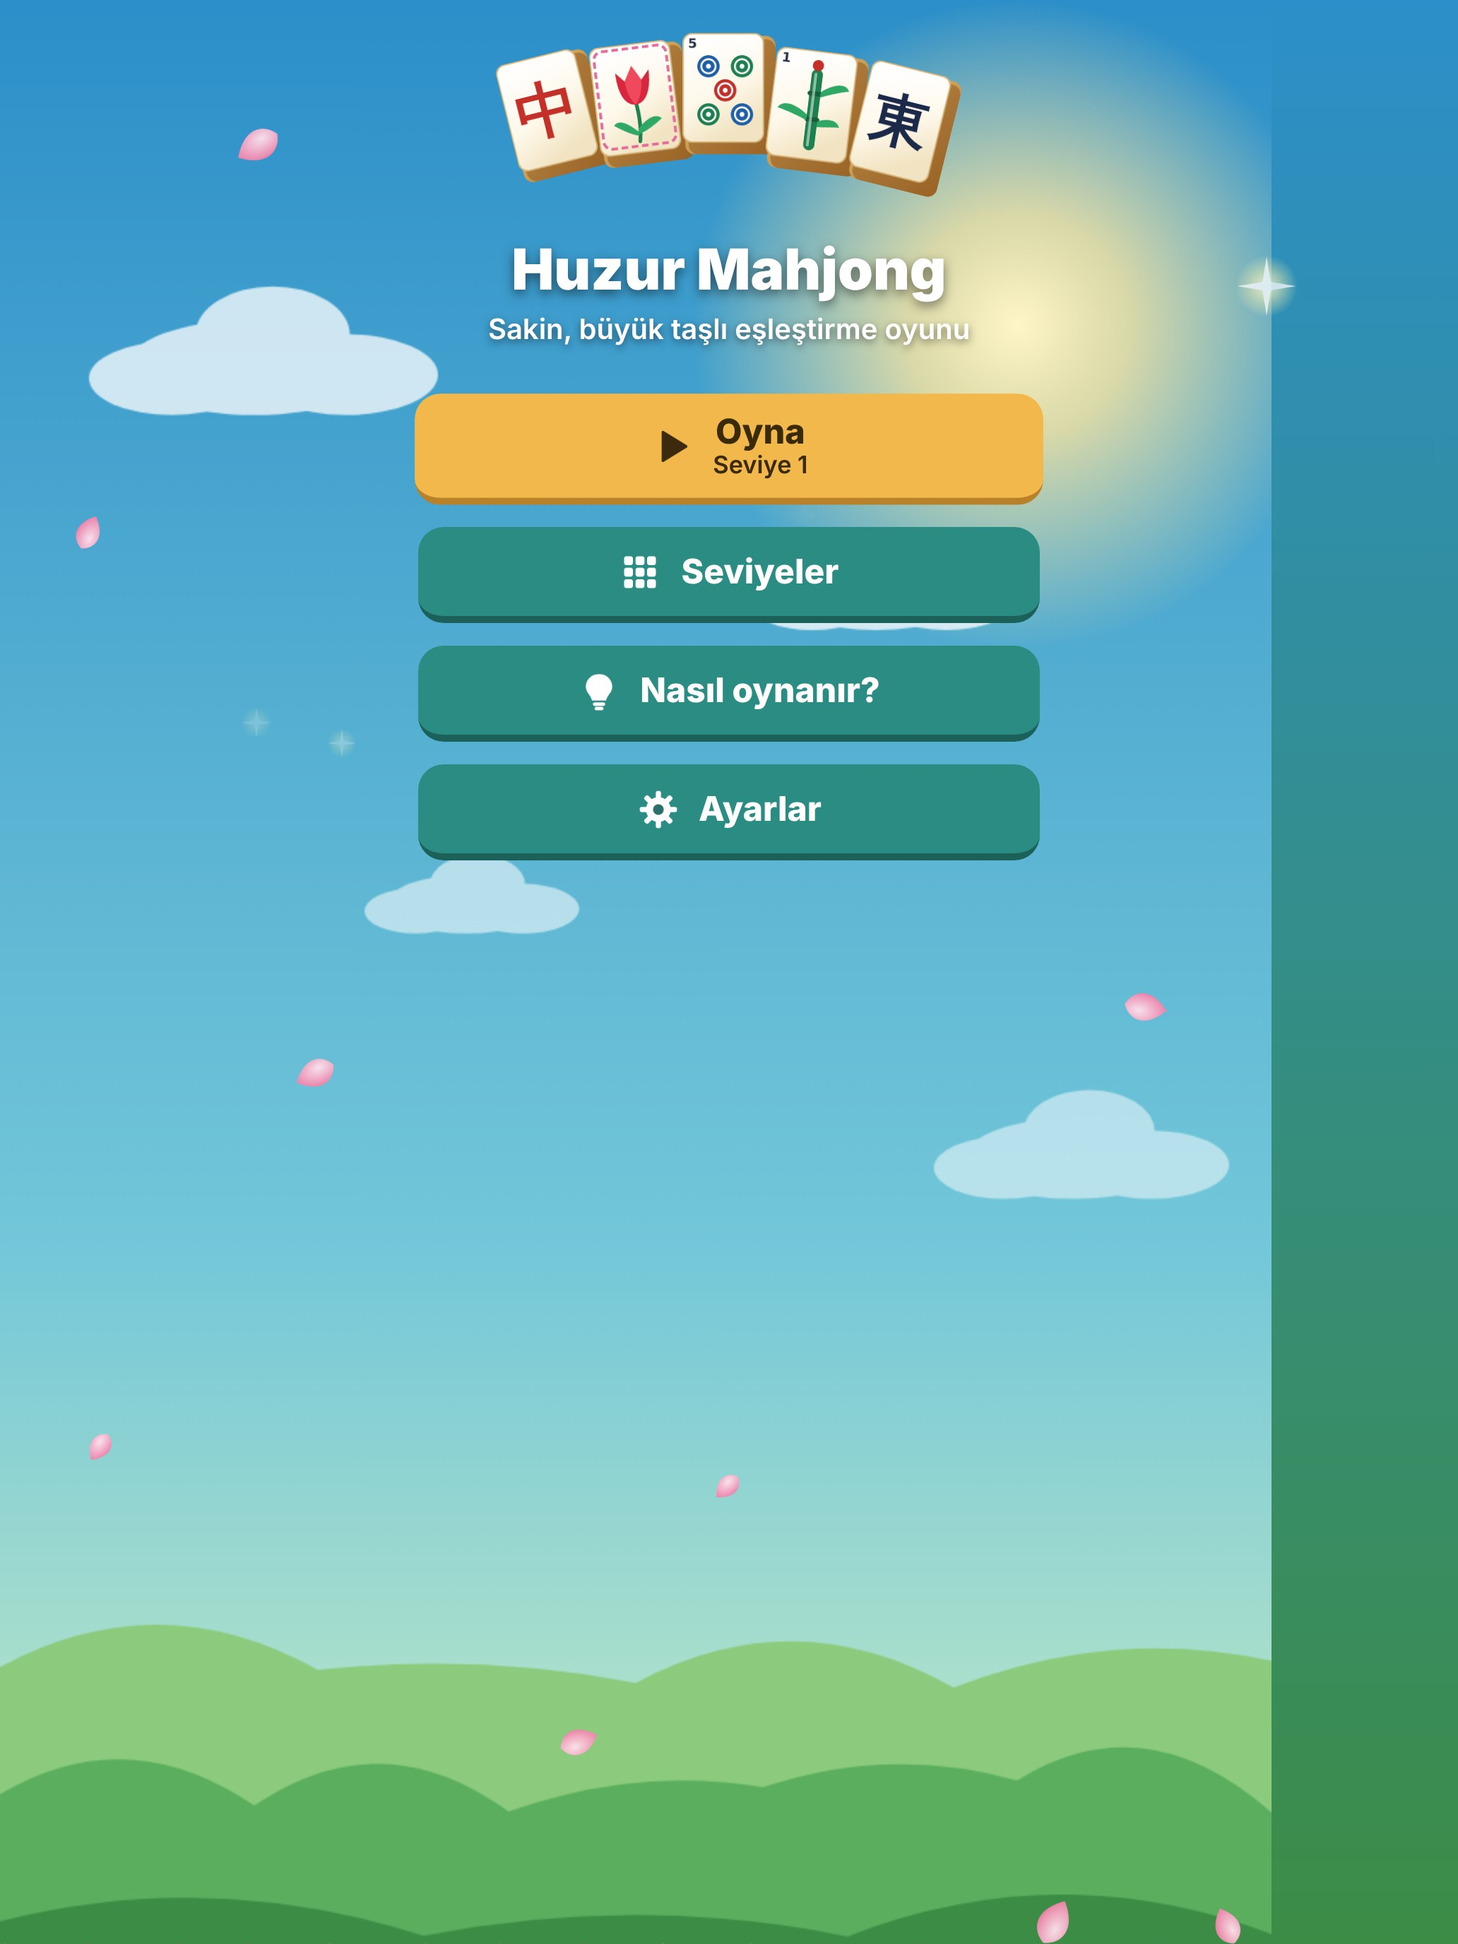
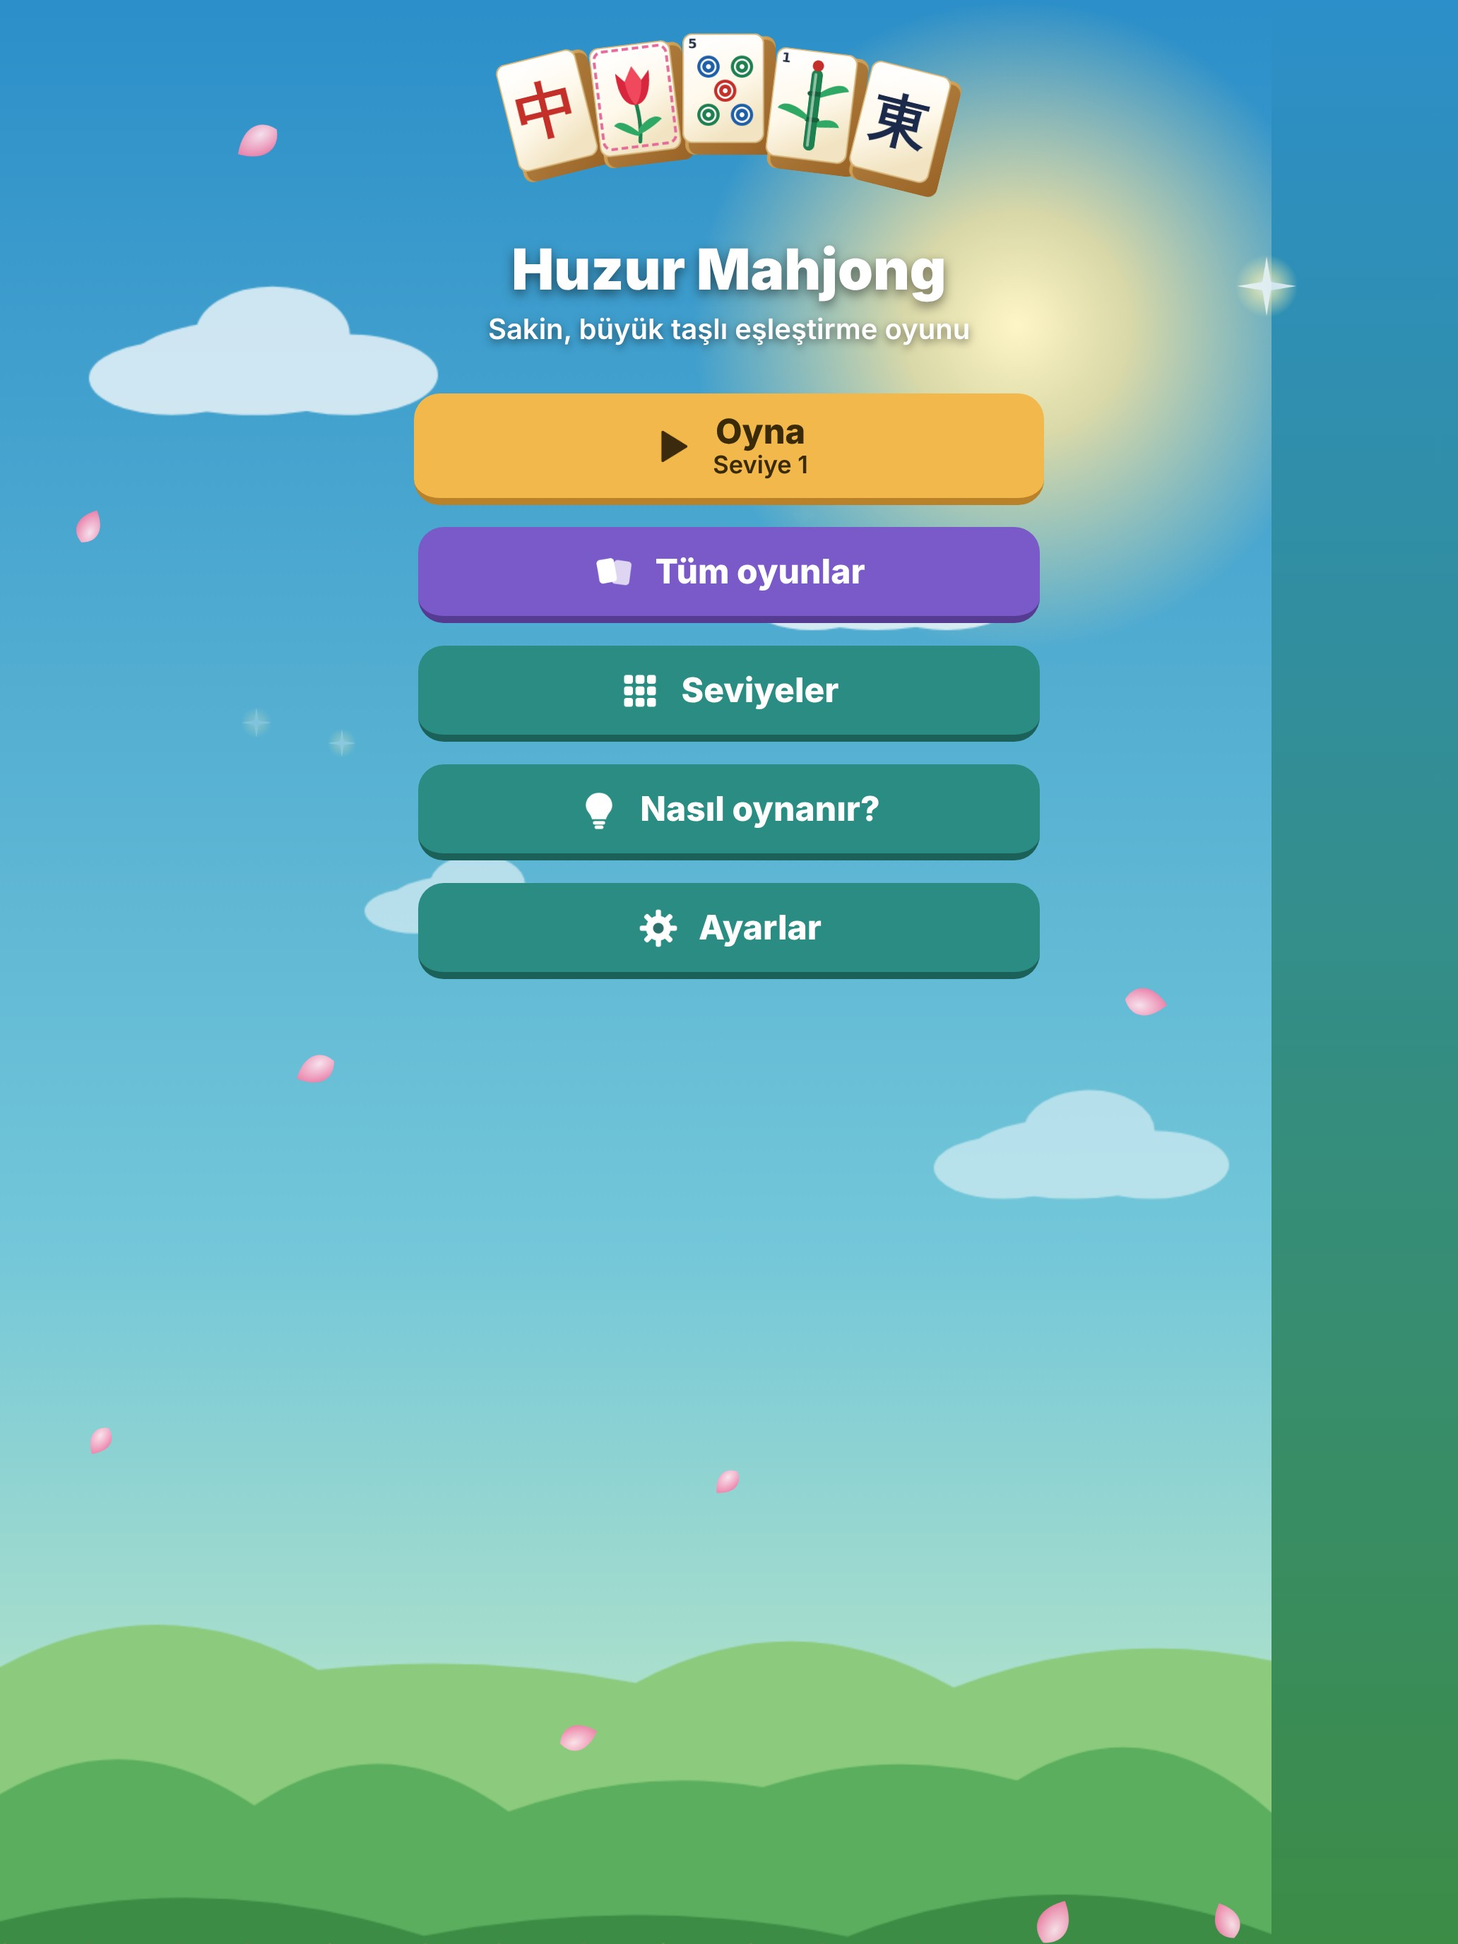
App Store hazırlığı: yeni ekran görüntüleri, destek sayfaları, doldurma rehberi
- Ekran görüntüleri 8 oyunu gösterecek şekilde yenilendi; Dynamic Island
  orta boy iPhone (6.3", 1206x2622) boyutu eklendi (TR ve EN; 6.9", 6.3", 13" iPad)
- docs/: destek (index.html) ve gizlilik politikası (gizlilik.html, 7 dil)
  sayfaları; herhangi bir ücretsiz statik barındırmada yayınlanabilir
- store/APP-STORE-CONNECT.md: açıklama, anahtar kelimeler, tanıtım metni,
  telif hakkı, inceleme iletişim bilgileri ve yaş derecelendirmesi
  cevapları alan alan, yapıştırmaya hazır
- Türkçe tanıtım metni 8 oyunu anlatacak şekilde güncellendi

Claude-Session: https://claude.ai/code/session_016Sydttefwf5DyJyme2mCtC

diff --git a/mahjong/docs/gizlilik.html b/mahjong/docs/gizlilik.html
@@ -1,0 +1,18 @@
+<!doctype html>
+<html lang="tr">
+<head>
+<meta charset="utf-8">
+<meta name="viewport" content="width=device-width, initial-scale=1">
+<title>Huzur Mahjong – Gizlilik Politikası / Privacy Policy</title>
+<link rel="stylesheet" href="style.css">
+</head>
+<body>
+<main>
+  <h1>Huzur Mahjong</h1>
+  <p>Gizlilik Politikası · Privacy Policy · Son güncelleme / Last updated: 2026-11-11</p>
+  <nav><a href="index.html">Destek / Support</a></nav>
+  <section><h2>Türkçe</h2><p>Huzur Mahjong (&quot;Uygulama&quot;) hiçbir kişisel veri toplamaz, saklamaz veya paylaşmaz.</p><ul><li>Uygulama internet bağlantısı kullanmaz.</li><li>Oyun ilerlemeniz ve ayarlarınız yalnızca kendi cihazınızda saklanır; bize veya üçüncü kişilere gönderilmez. Uygulamayı sildiğinizde bu bilgiler de silinir.</li><li>Uygulamada reklam, analiz aracı veya kullanıcı takibi yoktur.</li><li>Uygulama 13 yaş altındaki çocuklar dahil hiç kimseden bilerek bilgi toplamaz.</li></ul><p>Sorularınız için: E-POSTA-ADRESINIZ</p></section><section><h2>English</h2><p>Huzur Mahjong (the &quot;App&quot;) does not collect, store or share any personal data.</p><ul><li>The App does not use an internet connection.</li><li>Your game progress and settings are stored only on your own device and are never sent to us or to third parties. Deleting the App deletes this information.</li><li>The App contains no advertising, analytics or user tracking.</li><li>The App does not knowingly collect information from anyone, including children under 13.</li></ul><p>Questions: E-POSTA-ADRESINIZ</p></section><section><h2>Português</h2><p>Huzur Mahjong (&quot;o App&quot;) não coleta, armazena nem compartilha nenhum dado pessoal.</p><ul><li>O App não usa conexão com a internet.</li><li>Seu progresso e suas configurações ficam salvos apenas no seu aparelho e nunca são enviados para nós ou para terceiros. Ao apagar o App, essas informações também são apagadas.</li><li>O App não tem anúncios, ferramentas de análise nem rastreamento de usuários.</li><li>O App não coleta intencionalmente informações de ninguém, incluindo crianças menores de 13 anos.</li></ul><p>Dúvidas: E-POSTA-ADRESINIZ</p></section><section><h2>Deutsch</h2><p>Huzur Mahjong (die „App“) erhebt, speichert und teilt keine personenbezogenen Daten.</p><ul><li>Die App nutzt keine Internetverbindung.</li><li>Dein Spielfortschritt und deine Einstellungen werden nur auf deinem eigenen Gerät gespeichert und nie an uns oder Dritte gesendet. Wenn du die App löschst, werden auch diese Daten gelöscht.</li><li>Die App enthält keine Werbung, keine Analysewerkzeuge und kein Nutzer-Tracking.</li><li>Die App erhebt wissentlich keine Daten von irgendjemandem, auch nicht von Kindern unter 13 Jahren.</li></ul><p>Fragen: E-POSTA-ADRESINIZ</p></section><section><h2>Français</h2><p>Huzur Mahjong (l’« App ») ne collecte, ne stocke et ne partage aucune donnée personnelle.</p><ul><li>L’App n’utilise pas de connexion Internet.</li><li>Votre progression et vos réglages sont enregistrés uniquement sur votre appareil et ne sont jamais envoyés ni à nous ni à des tiers. Supprimer l’App supprime aussi ces informations.</li><li>L’App ne contient ni publicité, ni outil d’analyse, ni suivi des utilisateurs.</li><li>L’App ne collecte sciemment aucune information auprès de quiconque, y compris les enfants de moins de 13 ans.</li></ul><p>Questions : E-POSTA-ADRESINIZ</p></section><section><h2>日本語</h2><p>Huzur Mahjong（以下「本アプリ」）は、個人情報を一切収集・保存・共有しません。</p><ul><li>本アプリはインターネット接続を使用しません。</li><li>ゲームの進行状況と設定はお使いの端末内にのみ保存され、当方や第三者に送信されることはありません。 本アプリを削除すると、これらの情報も削除されます。</li><li>本アプリには広告、分析ツール、ユーザー追跡機能はありません。</li><li>本アプリは、13歳未満のお子様を含め、いかなる方からも意図的に情報を収集しません。</li></ul><p>お問い合わせ: E-POSTA-ADRESINIZ</p></section><section><h2>한국어</h2><p>Huzur Mahjong(이하 &quot;앱&quot;)은 어떠한 개인 정보도 수집, 저장 또는 공유하지 않습니다.</p><ul><li>앱은 인터넷 연결을 사용하지 않습니다.</li><li>게임 진행 상황과 설정은 사용자의 기기에만 저장되며 당사나 제3자에게 전송되지 않습니다. 앱을 삭제하면 이 정보도 함께 삭제됩니다.</li><li>앱에는 광고, 분석 도구, 사용자 추적 기능이 없습니다.</li><li>앱은 만 13세 미만 아동을 포함해 누구로부터도 의도적으로 정보를 수집하지 않습니다.</li></ul><p>문의: E-POSTA-ADRESINIZ</p></section>
+  <footer>© 2026 Huzur Mahjong</footer>
+</main>
+</body>
+</html>

diff --git a/mahjong/docs/index.html b/mahjong/docs/index.html
@@ -1,0 +1,51 @@
+<!doctype html>
+<html lang="tr">
+<head>
+<meta charset="utf-8">
+<meta name="viewport" content="width=device-width, initial-scale=1">
+<title>Huzur Mahjong – Destek / Support</title>
+<link rel="stylesheet" href="style.css">
+</head>
+<body>
+<main>
+  <h1>Huzur Mahjong</h1>
+  <p>Büyük taşlı, sakin taş eşleştirme oyunu. · A calm tile-matching game with big tiles.</p>
+  <nav><a href="#tr">Türkçe</a><a href="#en">English</a><a href="gizlilik.html">Gizlilik / Privacy</a></nav>
+
+  <div class="card">
+    <p>Soru, öneri ve sorunlar için / Questions, ideas and problems:</p>
+    <p class="mail">E-POSTA-ADRESINIZ</p>
+  </div>
+
+  <section id="tr">
+    <h2>Destek (Türkçe)</h2>
+    <h3>Nasıl oynanır?</h3>
+    <p>Aynı resme sahip iki serbest taşa dokunun; ikisi birden kalkar. Serbest taşın üstünde taş olmaz ve sağ ya da sol yanı boştur. Oyundaki "Nasıl oynanır?" düğmesi kuralları gösterir.</p>
+    <h3>Diğer oyunlar nerede?</h3>
+    <p>Ana sayfadaki "Tüm oyunlar" düğmesinden 8 oyuna ulaşabilirsiniz: Klasik, Zamana Karşı, Günün Bulmacası, Toplam 10, Üçlü Toplama, Bağlantı, Hafıza ve Zirve. Her oyunun içindeki soru işareti düğmesi o oyunun kurallarını anlatır.</p>
+    <h3>İpucum bitti, ne yapmalıyım?</h3>
+    <p>İpucu, karıştırma ve geri alma hakları sınırlıdır. Yeni bir seviyeyi ilk kez bitirdiğinizde yeni haklar kazanırsınız. Hamle kalmazsa karıştırma her zaman ücretsizdir.</p>
+    <h3>Dili nasıl değiştiririm?</h3>
+    <p>Ana sayfa → Ayarlar → Dil. Oyun Türkçe, İngilizce, Portekizce, Almanca, Fransızca, Japonca ve Korece bilir.</p>
+    <h3>İlerlemem kayboldu mu?</h3>
+    <p>İlerlemeniz yalnızca telefonunuzda saklanır. Uygulamayı silerseniz ilerleme de silinir.</p>
+  </section>
+
+  <section id="en">
+    <h2>Support (English)</h2>
+    <h3>How do I play?</h3>
+    <p>Tap two free tiles with the same picture to remove them. A free tile has nothing on top and an open left or right side. The "How to play" button in the game shows the rules.</p>
+    <h3>Where are the other games?</h3>
+    <p>Tap "All games" on the home screen to find 8 games: Classic, Time Attack, Daily Puzzle, Sum 10, Triple Collect, Connect, Memory and Peaks. The question-mark button inside each game explains its rules.</p>
+    <h3>I ran out of hints. What now?</h3>
+    <p>Hints, shuffles and undos are limited. You earn more by finishing a new level for the first time. When no moves are left, shuffling is always free.</p>
+    <h3>How do I change the language?</h3>
+    <p>Home → Settings → Language. The game is available in Turkish, English, Portuguese, German, French, Japanese and Korean.</p>
+    <h3>Did I lose my progress?</h3>
+    <p>Your progress is stored only on your phone. Deleting the app also deletes your progress.</p>
+  </section>
+
+  <footer>© 2026 Huzur Mahjong</footer>
+</main>
+</body>
+</html>

diff --git a/mahjong/docs/style.css b/mahjong/docs/style.css
@@ -1,0 +1,14 @@
+:root { --bg: #0f4a47; --card: #14605b; --ink: #ffffff; --soft: rgba(255,255,255,.82); --accent: #f2b84b; }
+* { box-sizing: border-box; }
+body { margin: 0; background: var(--bg); color: var(--ink); font: 17px/1.6 -apple-system, BlinkMacSystemFont, "Segoe UI", Roboto, "Noto Sans", sans-serif; }
+main { max-width: 760px; margin: 0 auto; padding: 32px 18px 60px; }
+h1 { font-size: 30px; margin: 0 0 4px; }
+h2 { font-size: 22px; margin: 34px 0 10px; color: var(--accent); }
+h3 { font-size: 18px; margin: 18px 0 4px; }
+p, li { color: var(--soft); }
+a { color: var(--accent); }
+.card { background: var(--card); border-radius: 16px; padding: 18px 20px; margin: 14px 0; }
+.mail { font-size: 20px; font-weight: 700; color: var(--ink); }
+nav { margin: 8px 0 20px; }
+nav a { margin-right: 14px; }
+footer { margin-top: 40px; font-size: 14px; color: var(--soft); }

diff --git a/mahjong/store/APP-STORE-CONNECT.md b/mahjong/store/APP-STORE-CONNECT.md
@@ -1,0 +1,152 @@
+# App Store Connect — doldurma rehberi
+
+App Store Connect → Uygulamalar → **Huzur Mahjong** → sol menüde **1.0 Hazırlanıyor**.
+Aşağıdaki her kutudaki metni olduğu gibi kopyalayıp ilgili alana yapıştırın.
+
+---
+
+## 1. Ekran görüntüleri
+
+"Önizlemeler ve Ekran Görüntüleri" bölümünde cihaz sekmesini seçip klasördeki dosyaları
+**numara sırasıyla** sürükleyip bırakın (ilk 3 görüntü aramalarda görünür):
+
+| App Store Connect'teki cihaz | Klasör |
+| --- | --- |
+| iPhone 6.9" (en büyük iPhone) | `store/screenshots/tr/iphone-6.9/` |
+| iPhone Dynamic Island orta boy (6.3") | `store/screenshots/tr/iphone-6.3/` |
+| iPad 13" | `store/screenshots/tr/ipad-13/` |
+
+Sıra: 1-home, 2-games, 3-classic-hint, 4-triple, 5-connect, 6-peaks, 7-dawn, 8-sea, 9-levels.
+İngilizce sayfa için aynı yapı `store/screenshots/en/` içinde.
+
+---
+
+## 2. Tanıtım metni (Promotional Text)
+
+```
+8 oyun bir arada: Klasik, Üçlü Toplama, Bağlantı, Hafıza, Zirve ve daha fazlası. Büyük taşlar, hareketli sahneler, sakin bir mola.
+```
+
+## 3. Açıklama (Description)
+
+```
+Huzur Mahjong, klasik taş eşleştirme oyununu sakin ve göz yormayan bir tasarımla sunar.
+
+AYNI İKİ TAŞI BULUN
+Üstü ve bir yanı açık olan iki aynı taşa dokunun, ikisi birden kalkar. Bütün taşları
+kaldırdığınızda seviye tamamlanır.
+
+GÖZ YORMAYAN TASARIM
+• Büyük ve net taşlar — küçük ekranlarda bile rahatça okunur
+• Seçilebilir taşlar parlak, kapalı taşlar soluk görünür
+• Büyük düğmeler, büyük yazılar
+
+CANLI SAHNELER
+• Lale bahçesi, Boğaz'da gün batımı, Kapadokya balonları ve Ege kıyısı
+• Taşlar eşleşince parıltıyla patlar, hızlı eşleşmeler kombo yapar
+• Her seviyede 3 yıldız topla, konfetiyle kutla
+
+ACELE YOK
+• Süre baskısı yok
+• İpucu, karıştırma ve geri alma hakları; yeni seviyeler bitirdikçe artar
+• Her seviye çözülebilir olarak hazırlanır
+
+BOL BOL OYUN
+• 8 farklı oyun: Klasik, Zamana Karşı, Günün Bulmacası, Toplam 10, Üçlü Toplama, Bağlantı, Hafıza ve Zirve
+• 200 seviye, 16 farklı dizilim: kalp, ev, kelebek, kale, piramit ve daha fazlası
+• Oyun otomatik kaydedilir, kaldığınız yerden devam edersiniz
+
+İNTERNET GEREKMEZ
+Huzur Mahjong çevrimdışı çalışır ve hiçbir kişisel veri toplamaz.
+```
+
+## 4. Anahtar kelimeler (Keywords)
+
+```
+mahjong,taş,eşleştirme,bulmaca,solitaire,zeka,beyin,klasik,büyük,kolay,rahatlatıcı,çevrimdışı
+```
+
+## 5. Alt başlık (Subtitle) — "Uygulama Bilgileri" sayfasında
+
+```
+Büyük taşlı, sakin eşleştirme
+```
+
+## 6. Destek URL'si ve Gizlilik Politikası URL'si
+
+Bu iki adres herkesin açabileceği bir web sayfası olmalıdır. Sayfalar hazır:
+`docs/index.html` (destek) ve `docs/gizlilik.html` (gizlilik politikası).
+
+1. İki dosyadaki `E-POSTA-ADRESINIZ` yazısını kendi e-posta adresinizle değiştirin
+   (veya adresinizi Claude'a yazın, o yerleştirsin).
+2. En kolay ücretsiz yayın yolu: <https://app.netlify.com/drop> adresine gidin, ücretsiz
+   hesap açın (Google ile giriş olur) ve `docs` klasörünü sayfaya sürükleyip bırakın.
+   Size `https://<isim>.netlify.app` gibi bir adres verir. Site ayarlarından ismi
+   `huzur-mahjong` gibi değiştirebilirsiniz.
+3. App Store Connect'e girin:
+   - **Destek URL'si:** `https://<isim>.netlify.app/`
+   - **Gizlilik Politikası URL'si** ("Uygulama Gizliliği" sayfasında):
+     `https://<isim>.netlify.app/gizlilik.html`
+   - **Pazarlama URL'si:** boş bırakılabilir.
+
+---
+
+## 7. Telif hakkı (Copyright)
+
+```
+2026 Adınız Soyadınız
+```
+(Şirket adına yayınlıyorsanız şirket adını yazın.)
+
+---
+
+## 8. Uygulama İnceleme Bilgileri (App Review Information) — iletişim bilgileri
+
+| Alan | Ne yazılacak |
+| --- | --- |
+| Ad / Soyad | Kendi adınız ve soyadınız |
+| Telefon numarası | Ülke koduyla, örn. `+90 5xx xxx xx xx` |
+| E-posta | Apple'ın size ulaşacağı e-posta |
+| Oturum açma gerekli | **İşaretlemeyin** (oyunda hesap yok) |
+
+**Notlar** kutusu:
+
+```
+Huzur Mahjong is an offline single-player tile game with 8 modes. No account, sign-in,
+network connection, in-app purchases or ads. All progress is stored only on the device.
+Start from the home screen: "Play" opens the classic game, "All games" lists all 8 modes.
+Rules are available via the "How to play" / "?" buttons.
+```
+
+---
+
+## 9. Yaş derecelendirmesi (Age Rating)
+
+"Uygulama Bilgileri" → **Yaş Derecelendirmesi** → Düzenle. Anketteki **her soruya**
+"Yok / None" ya da "Hayır / No" cevabını verin:
+
+| Bölüm | Soru | Cevap |
+| --- | --- | --- |
+| Uygulama içi kontroller | Ebeveyn denetimi, yaş doğrulama | Hayır |
+| Yetenekler | Sınırsız web erişimi | Hayır |
+| | Kullanıcıların oluşturduğu içerik | Hayır |
+| | Mesajlaşma ve sohbet | Hayır |
+| | Reklam | Hayır |
+| Yetişkin temaları | Küfür / kaba mizah, korku, alkol-tütün-uyuşturucu | Yok |
+| Tıbbi / sağlık | Tıbbi bilgi, sağlık ve zindelik konuları | Yok / Hayır |
+| Cinsellik / çıplaklık | Tüm sorular | Yok |
+| Şiddet | Çizgi film şiddeti, gerçekçi şiddet, silahlar | Yok |
+| Şansa dayalı | Kumar simülasyonu, kumar, yarışmalar, ganimet kutuları | Yok / Hayır |
+
+Sonuç **4+** olmalıdır. Kaydet'e basın.
+
+---
+
+## 10. Diğerleri (henüz yapılmadıysa)
+
+- **Uygulama Gizliliği** → "Veri toplamıyoruz" (Data Not Collected) → Yayınla.
+- **Fiyatlandırma ve Kullanılabilirlik** → Ücretsiz, tüm ülkeler.
+- **Kategori** (Uygulama Bilgileri) → Birincil: Oyunlar → Bulmaca, İkincil: Oyunlar → Masa Oyunu.
+- **Yapı (Build):** 8 oyunlu yeni sürümü yükledikten sonra Build 1 yerine yeni yapıyı seçin.
+
+Hepsi tamamlanınca sağ üstteki **İncelemeye Ekle → İncelemeye Gönder**.

diff --git a/mahjong/store/app-store-listing.md b/mahjong/store/app-store-listing.md
@@ -15,7 +15,7 @@ anahtar kelimeler 100, tanıtım metni 170, açıklama 4000.
 **Alt başlık:** Büyük taşlı, sakin eşleştirme
 
 **Tanıtım metni (Promotional Text):**
-Büyük taşlar, hareketli sahneler: lale bahçesinden Kapadokya balonlarına. Eşleştirin, kombo yapın, yıldızları toplayın.
+8 oyun bir arada: Klasik, Üçlü Toplama, Bağlantı, Hafıza, Zirve ve daha fazlası. Büyük taşlar, hareketli sahneler, sakin bir mola.
 
 **Anahtar kelimeler:**
 mahjong,taş,eşleştirme,bulmaca,solitaire,zeka,beyin,klasik,büyük,kolay,rahatlatıcı,çevrimdışı
